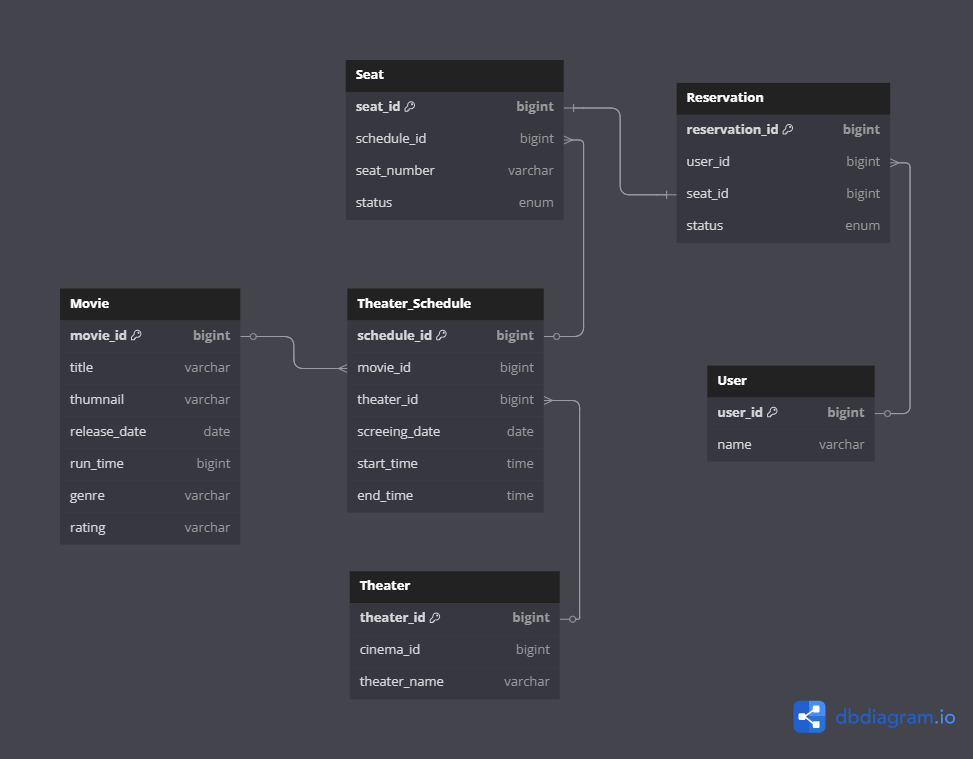
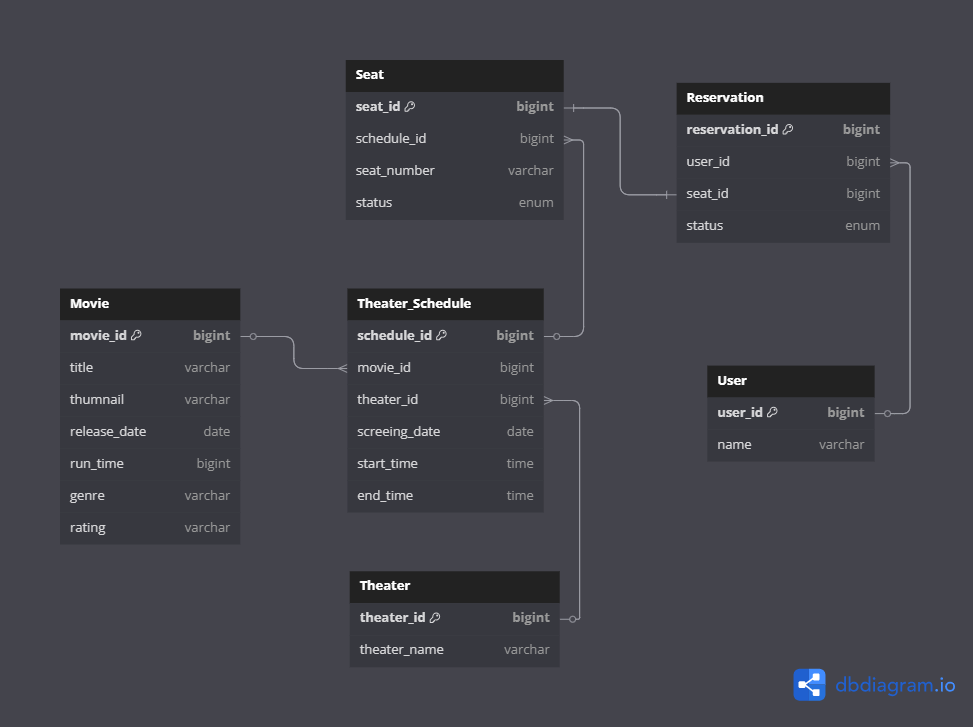
[docs] 테이블 관계 설명 수정
- ERD 수정

diff --git a/README.md b/README.md
@@ -16,6 +16,8 @@
 - 데이터 저장소 및 외부 API 연동.
 - Redis, Kafka 등 인프라 기능 제공.
 
+---
+
 ## ERD
 - 작성자,수정자,작성일,수정일 컬럼은 실제 테이블에 추가됩니다. <br> 가독성을 위해 ERD 상에서만 제외했습니다.
 - 테이블 간의 느슨한 결합을 위해 논리적 FK를 선택했습니다. 
@@ -29,10 +31,11 @@
 - 상영일정마다 좌석 상태 값이 다를 수 있음.
 
 ### Seat(좌석) & Reseravation(예약) → 1 : 1
-- 좌석은 해당 **상영 일정에서 단 한 번만 예약될 수 있음.** (한 좌석을 두 명이 동시에 예약할 수 없음).
+- 좌석은 해당 **상영 일정에서 단 한 번만 예약될 수 있음.** 
+  - 한 좌석을 두 명이 동시에 예약할 수 없음.
+  - 상영 일정이 지나면 해당 좌석은 예약할 수 없어야 함.
 - **상영 일정(ID)마다 좌석이 개별적으로 관리됨.**
   - 같은 장소, 같은 좌석 번호를 갖고 있더라도 **상영 일정이 다르면 다른 좌석으로 취급**됨.
-  - Seat Theater-Schedule 테이블에 종속되기 때문에 상영 일정이 지나면 해당 좌석은 예약할 수 없어야 함.
 
 ### User(사용자) & Reservation(예약) → 1 : N
 - 한 좌석에 대한 예약 내역은 반드시 하나지만, 한 명의 사용자가 여러 좌석을 예약할 수 있음.
